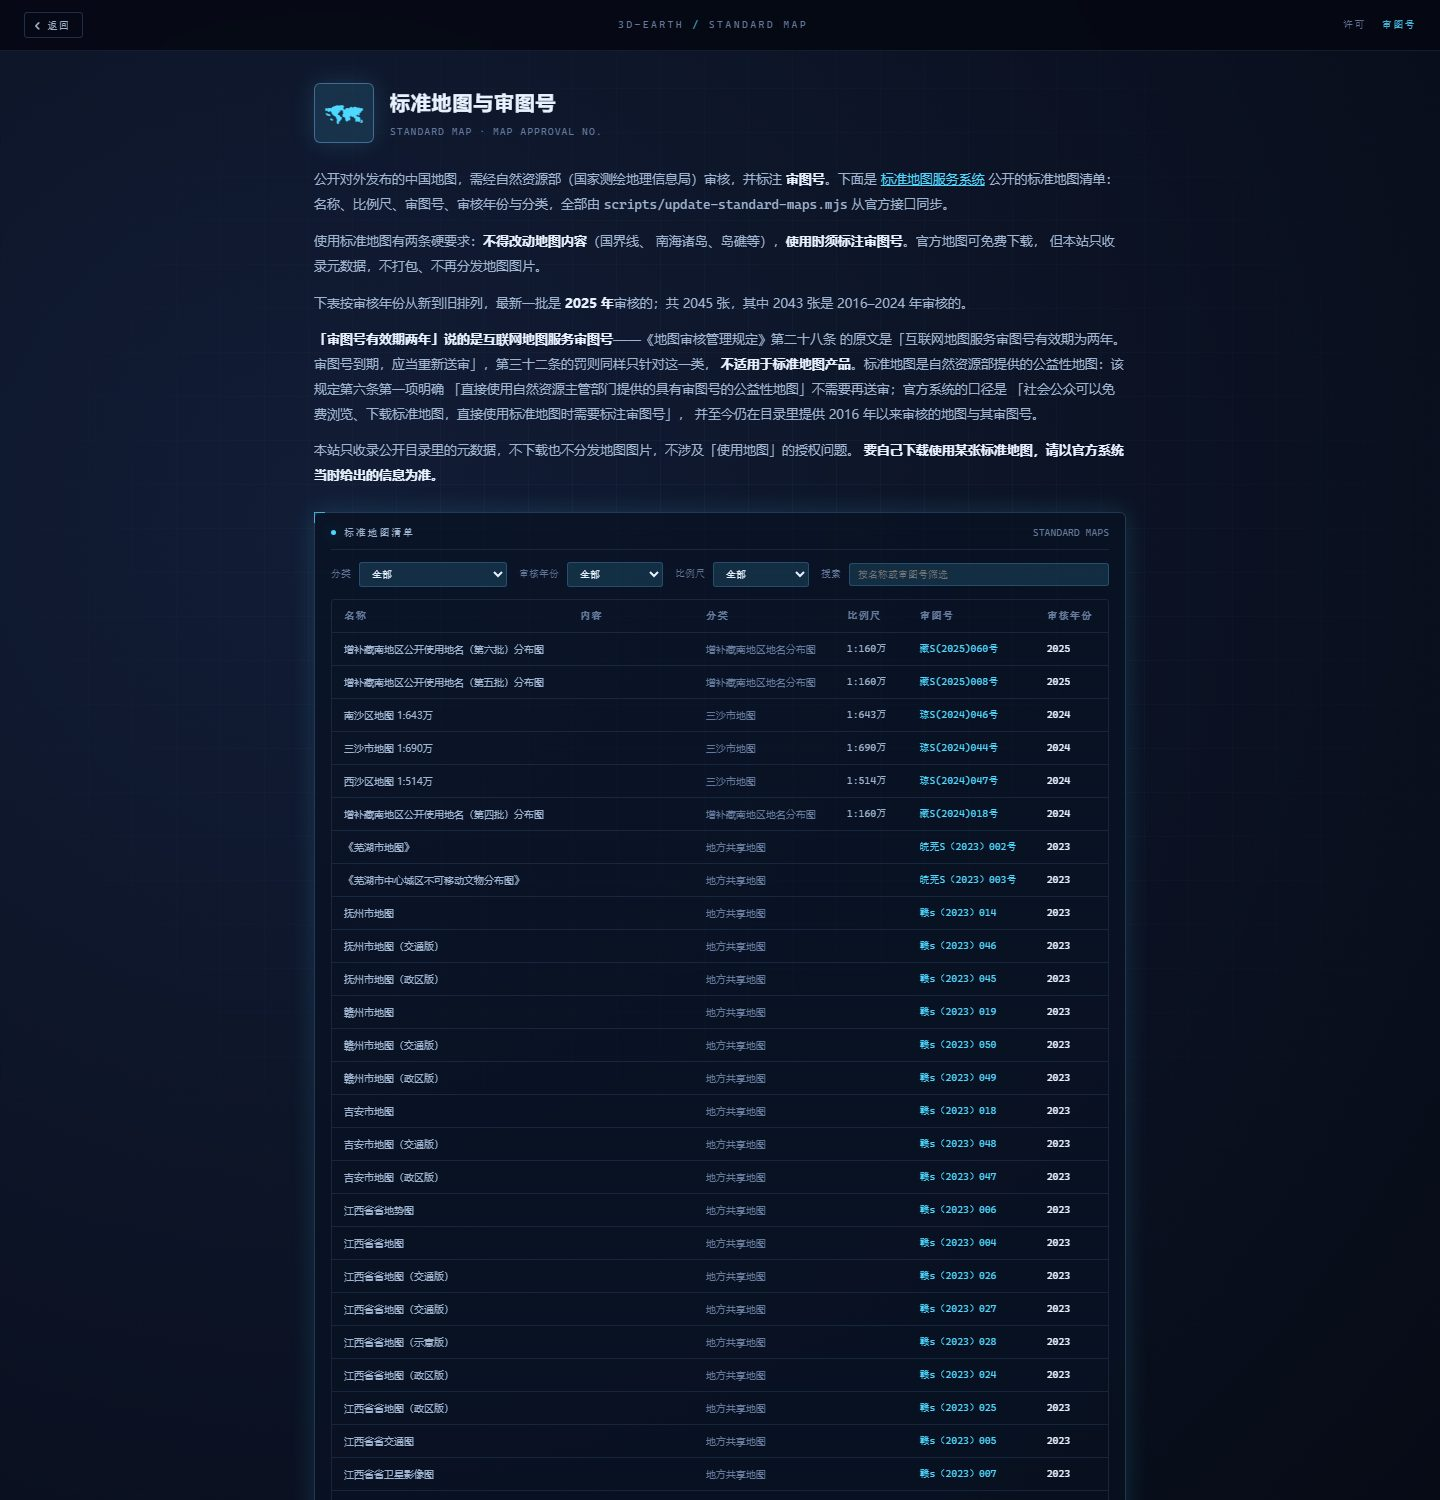
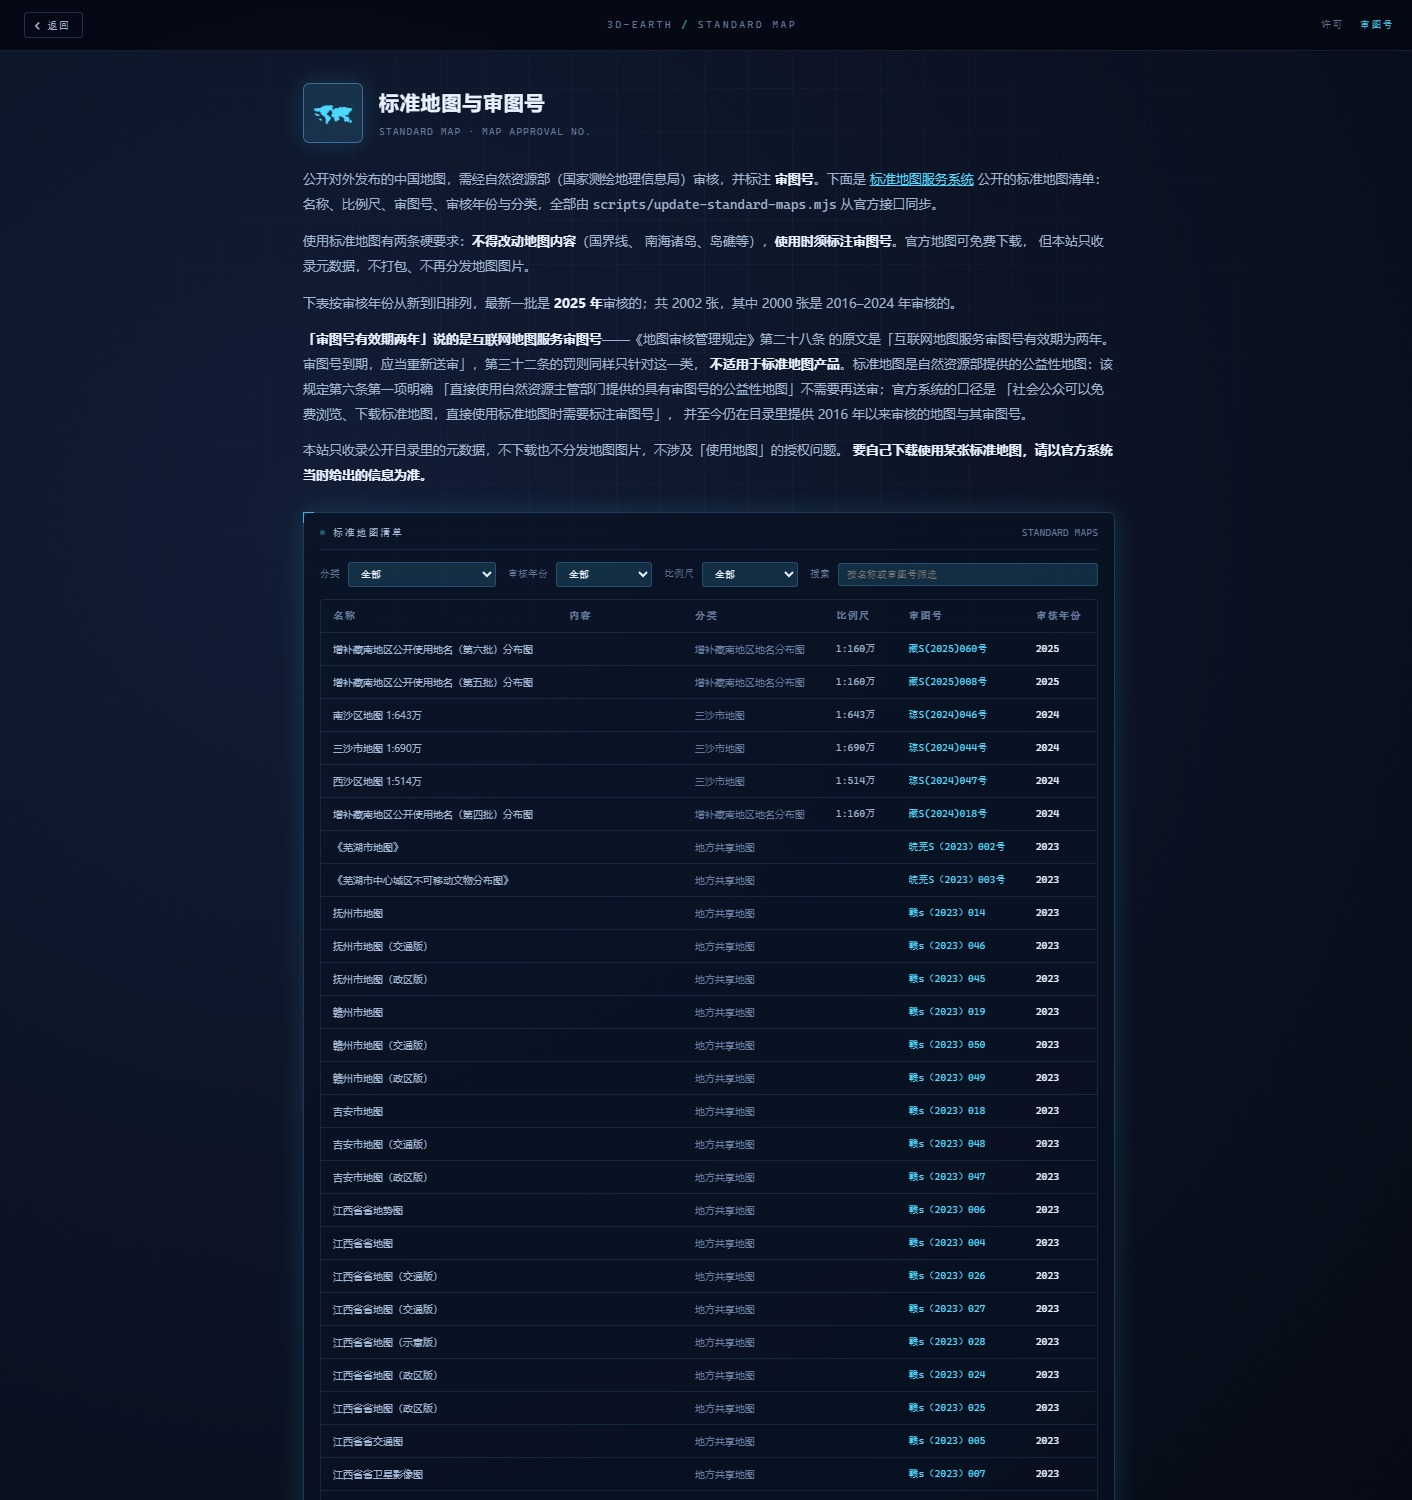
docs: 配图重拍与文案同步，依赖源统一到官方 registry
配图：地球主视图、全球视角、标准地图清单三张重拍。前两张底部带着 vite
devtools 的悬浮按钮（当初是从 dev server 拍的），标准地图那张页面上的
「共 2045 张」早就和现在的 2002 条对不上了。另加一张带参数轴的晨昏线图解。

依赖源：package-lock.json 里 121 条 resolved 指向 npm 镜像站，两个同步脚本
也硬编码了镜像 registry。统一换成官方 registry——只换 host，version 与
integrity 一律不动。实测两个数据包的 tarball 在两个源上字节数与 sha512
完全相同，官方源同样能取到（定时同步脚本原本只认镜像站的 tarball 通道）。

另外：开发者文档里的用例数、覆盖章节、测试文件清单都过期了，一并更新；
站内的 /licenses 页面还写着「npm 镜像源」，一起改掉；.superpowers/ 是
本地的实施计划与任务报告，加进 .gitignore 免得将来被误加进仓库。

验证：887 个用例全绿；构建、知识数据校验、省份索引校验均通过。

diff --git a/src/components/LicensesPage.vue b/src/components/LicensesPage.vue
@@ -200,7 +200,7 @@
         <h2>数据更新</h2>
         <ul class="licenses__list">
           <li><code>scripts/update-geo.mjs</code> —— 中国省界与各省面积（DataV）。</li>
-          <li><code>scripts/update-world.mjs</code> —— 世界国界（npm 镜像源 npmmirror）。</li>
+          <li><code>scripts/update-world.mjs</code> —— 世界国界（npm 官方源）。</li>
           <li><code>scripts/update-standard-maps.mjs</code> —— 标准地图与审图号清单（标准地图服务系统）。</li>
           <li><code>scripts/check-licenses.mjs</code> —— 逐个体检上游可达性与许可字段。</li>
         </ul>

diff --git a/AGENTS.md b/AGENTS.md
@@ -1,6 +1,6 @@
 # AGENTS.md
 
-给后续在本仓库执行任务的 AI agent / 协作者看的项目约定。
+给后续在这个仓库上干活的人看的项目约定：目录职责、命令、硬约束与代码约定。
 
 ## 项目是什么
 
@@ -86,7 +86,7 @@ npm run build          # 生产构建
 npm run geo:check      # 校验本地地理数据与上游是否一致（只读，不写文件）
 npm run geo:update     # 从 DataV 同步中国地理数据到 public/geojson/
 npm run world:check    # 校验世界国界与上游是否一致
-npm run world:update   # 从 npmmirror 同步世界国界
+npm run world:update   # 从 npm 官方源同步世界国界
 npm run standard:list    # 从标准地图服务系统抓取清单（只报数，用 --out 指定落盘位置）
 npm run licenses:check # 体检数据源：上游可达性与许可是否仍与登记一致
 npm run knowledge:build   # 从课程讲义重新生成知识数据（源讲义在仓库外）
@@ -98,10 +98,10 @@ npm run province:check    # 校验省份名称索引与省份数据一致
 CI 定义在 `.github/workflows/ci.yml`：push 与 PR 都跑 `lint:check` + `test:unit` + `build`，另有一步 `knowledge:check`（源讲义不在仓库里，没有源时它只打印警告并 exit 0）。
 站点部署在 `.github/workflows/pages.yml`：同样先跑 lint 与测试，再用 `SITE_BASE=/3D-earth/` 构建并部署到 GitHub Pages。
 
-⚠ **测试在机器负载高时会假红**：vitest 默认单用例超时 5 秒，多个 agent 并行跑测试时
+⚠ **测试在机器负载高时会假红**：vitest 默认单用例超时 5 秒，多个进程并行跑测试时
 导航类用例会撞上超时。判断失败前先在安静机器上单独重跑那个文件。
 
-`npm run test:unit` 必须是绿的才算完成改动。当前有 589 个用例：
+`npm run test:unit` 必须是绿的才算完成改动。当前有 887 个用例：
 `src/__tests__/App.spec.js`（应用挂载）、
 `src/__tests__/geoDataProcessor.spec.js`（35 个要素的渲染范围覆盖、与参考实现逐顶点一致、海南/台湾/九段线定点断言）、
 `src/__tests__/provinceData.spec.js`（省份详情数据与 GeoJSON 的一致性契约：adcode/name/center 严格相等、字段结构完整、分区覆盖无重叠、配色不落兜底、面积与几何重算一致、两个面积口径不差数量级、人口合计与全国人口相差 3% 以内）、
@@ -115,7 +115,8 @@ CI 定义在 `.github/workflows/ci.yml`：push 与 PR 都跑 `lint:check` + `tes
 `src/__tests__/knowledgeParser.spec.js`（讲义解析器：栏位切分、块边界、缩进层级）、
 `src/__tests__/toolSources.spec.js`（互动工具的来源标注：节号、教材出处、视频分P 与课程范围）、
 `src/__tests__/toolLinks.spec.js`（知识点 ↔ 互动实验的双向互链：映射表完整性、强弱划分与人工策展的 sections 一致、两个方向互为逆映射、路由真实存在、实验页的「相关提纲」渲染与容错）、
-`src/__tests__/demo.spec.js`（演示动画：注册表与知识数据里的 id 对得上、**晨昏线的几何数值正确**（切点与直射点互余、与赤道交于 6 时和 18 时）、**每个演示都能挂载并切步**）、
+`src/__tests__/demo.spec.js`（演示动画：注册表与知识数据里的 id 对得上、**晨昏线的几何数值正确**（切点与直射点互余、与赤道交于 6 时和 18 时）、**每个演示都能挂载并切步**、**SVG 属性合法**（没有 NaN/undefined、路径以 M 开头）、**拖动参数轴到两端图形仍然正确**）、
+`src/__tests__/demo-shell.spec.js`（演示外壳：播放/暂停、速度、循环、时间轴跳转、键盘翻步、「减少动态效果」时不自动播、参数轴的 label 与数值同步）、
 `src/__tests__/demos/`（每个演示自己的用例：几何纯函数的值 + 组件渲染），
 `src/__tests__/router.spec.js`（路由表契约，含 `/licenses` 与 `/standard-map`）。
 
@@ -167,7 +168,7 @@ CI 定义在 `.github/workflows/ci.yml`：push 与 PR 都跑 `lint:check` + `tes
 | `100000.json` | `public/geojson/china.json` |
 | —— | `public/data/provinces/<adcode>.json` 里的 `areaKm2`（由边界几何算出） |
 
-`scripts/update-world.mjs` 从 npm 镜像源（npmmirror）拉两个包并合并：
+`scripts/update-world.mjs` 从 npm 官方源拉两个包并合并：
 
 | 包 | 许可 | 提供 | 写入 |
 |---|---|---|---|
@@ -204,9 +205,9 @@ CI 定义在 `.github/workflows/ci.yml`：push 与 PR 都跑 `lint:check` + `tes
   `mapYear` 记的是平台登记年份），共 9 条，全在「地方共享地图」分类里。
   **国家审图号（GS 开头）零不一致**，断言要分层写
 
-npm 包要从 npmmirror 取 tarball 再解包（`node:zlib` 解 gzip，tar 头部手写解析）——
-npmmirror 的单文件接口对这几个包是 403，tarball 是唯一通道。`un-m49` 的入口是 JS 字面量，
-脚本用正则逐字段解析，**不执行远端代码**。
+npm 包从官方 registry 取 tarball 再解包（`node:zlib` 解 gzip，tar 头部手写解析）——
+只取需要的那个文件、锁定版本，不执行远端代码。`un-m49` 的入口是 JS 字面量，
+脚本用正则逐字段解析。
 
 写盘的是合并后的结果，因此数据没变时不产生 diff。
 
@@ -237,5 +238,5 @@ npmmirror 的单文件接口对这几个包是 403，tarball 是唯一通道。`
 - 上游几何覆盖不全：世界数据没有科索沃（两个上游都没有它的边界）。
 - 台湾省作为一个省级行政区呈现（中国视角），在全球视角里不作为独立国家条目出现。
 - 审图号不适用于 3D 地球：`/standard-map` 列的是官方标准地图的审图号，3D 球面是另一种表现形式，不能沿用。
-- 课程内容目前只覆盖第 2 章（地图与定位工具）与第 15 章（区域地理），其余 13 章在课程地图里标为「规划中」；「点省→知识点」目前每个省只关联到 2–3 节
-- `npm audit` 需切到官方 npm registry 执行（npmmirror 不实现 `/-/npm/v1/security/*` 接口），依赖漏洞需换官方源再审。
+- 课程内容目前覆盖第 2 章（地图与定位工具）、第 3 章（地球的自转）、第 4 章（地球的公转）、第 7 章（大气环流）、第 11 章（水循环与海洋）与第 15 章（区域地理速览），共 98 个小节；其余 9 章在课程地图里标为「规划中」
+- `npm audit` 需切到官方 npm registry 执行（公共镜像源不实现 `/-/npm/v1/security/*` 接口），依赖漏洞需换官方源再审。

diff --git a/LICENSES.md b/LICENSES.md
@@ -43,9 +43,9 @@
 |---|---|---|---|
 | `china-provinces.json` | 34 个省级行政区 + 南海断续线要素 | [DataV.GeoAtlas 行政区划边界](https://geo.datav.aliyun.com/areas_v3/bound/100000_full.json)（阿里云） | 上游公开接口数据，随仓库分发 |
 | `china.json` | 中华人民共和国整体边界 | [DataV.GeoAtlas 行政区划边界](https://geo.datav.aliyun.com/areas_v3/bound/100000.json) | 上游公开接口数据，随仓库分发 |
-| `world-countries.json` | 239 个国家/地区边界，含中文名、ISO 3166-1 代码与地区划分 | 几何与中文名：[`@surbowl/world-geo-json-zh`](https://registry.npmmirror.com/@surbowl/world-geo-json-zh)；大洲与次区域：联合国 M49 地区划分（[`un-m49`](https://registry.npmmirror.com/un-m49)） | **Unlicense**（公有领域）+ **MIT** |
+| `world-countries.json` | 239 个国家/地区边界，含中文名、ISO 3166-1 代码与地区划分 | 几何与中文名：[`@surbowl/world-geo-json-zh`](https://registry.npmjs.org/@surbowl/world-geo-json-zh)；大洲与次区域：联合国 M49 地区划分（[`un-m49`](https://registry.npmjs.org/un-m49)） | **Unlicense**（公有领域）+ **MIT** |
 
-两个 npm 包都从 npmmirror（npm 镜像源）取 tarball：npmmirror 的单文件接口对它们是 403，tarball 是唯一通道。`un-m49` 的入口是 JS 字面量，脚本用正则逐字段解析，**不执行远端代码**。
+两个 npm 包都从 npm 官方源取 tarball：只取需要的文件、锁定版本，不执行远端代码。`un-m49` 的入口是 JS 字面量，脚本用正则逐字段解析，**不执行远端代码**。
 
 ---
 
@@ -123,7 +123,7 @@
 | 脚本 | 上游 | 调度 |
 |---|---|---|
 | `scripts/update-geo.mjs` | DataV.GeoAtlas | GitHub Actions 每周一 |
-| `scripts/update-world.mjs` | npm 镜像源 npmmirror | 同上 |
+| `scripts/update-world.mjs` | npm 官方源 | 同上 |
 | `scripts/update-standard-maps.mjs` | 标准地图服务系统 | 同上 |
 | `scripts/check-licenses.mjs` | 逐个体检上游可达性与许可字段 | 同上 |
 

diff --git a/README.md b/README.md
@@ -71,6 +71,12 @@
   <img src="docs/screenshot-demo-walker.jpeg" alt="知识点页内的分步动态图解" width="880" />
 </p>
 
+另一段是晨昏线。太阳直射点的纬度是可以拖的：拖到赤道，晨昏线就变成过南北两极的两条竖线，切点随之落到极点：
+
+<p align="center">
+  <img src="docs/screenshot-demo-terminator.jpeg" alt="带参数轴的晨昏线图解" width="880" />
+</p>
+
 <p align="center">
   <img src="docs/screenshot-contour.jpeg" alt="等高线判读实验" width="880" />
 </p>
@@ -106,6 +112,8 @@
 ## 数据来源与许可
 
 代码与第三方数据适用不同许可，**逐项来源、许可与义务见 [LICENSES.md](./LICENSES.md)**，站内也有同样一份：路由 `/licenses`。
+
+标准地图元数据来自自然资源部标准地图服务系统公开的清单（名称、比例尺、审图号、审核年份、分类），从官方接口抓取整理，覆盖 2000 余张。
 
 | 数据 | 来源 | 许可 |
 |---|---|---|
